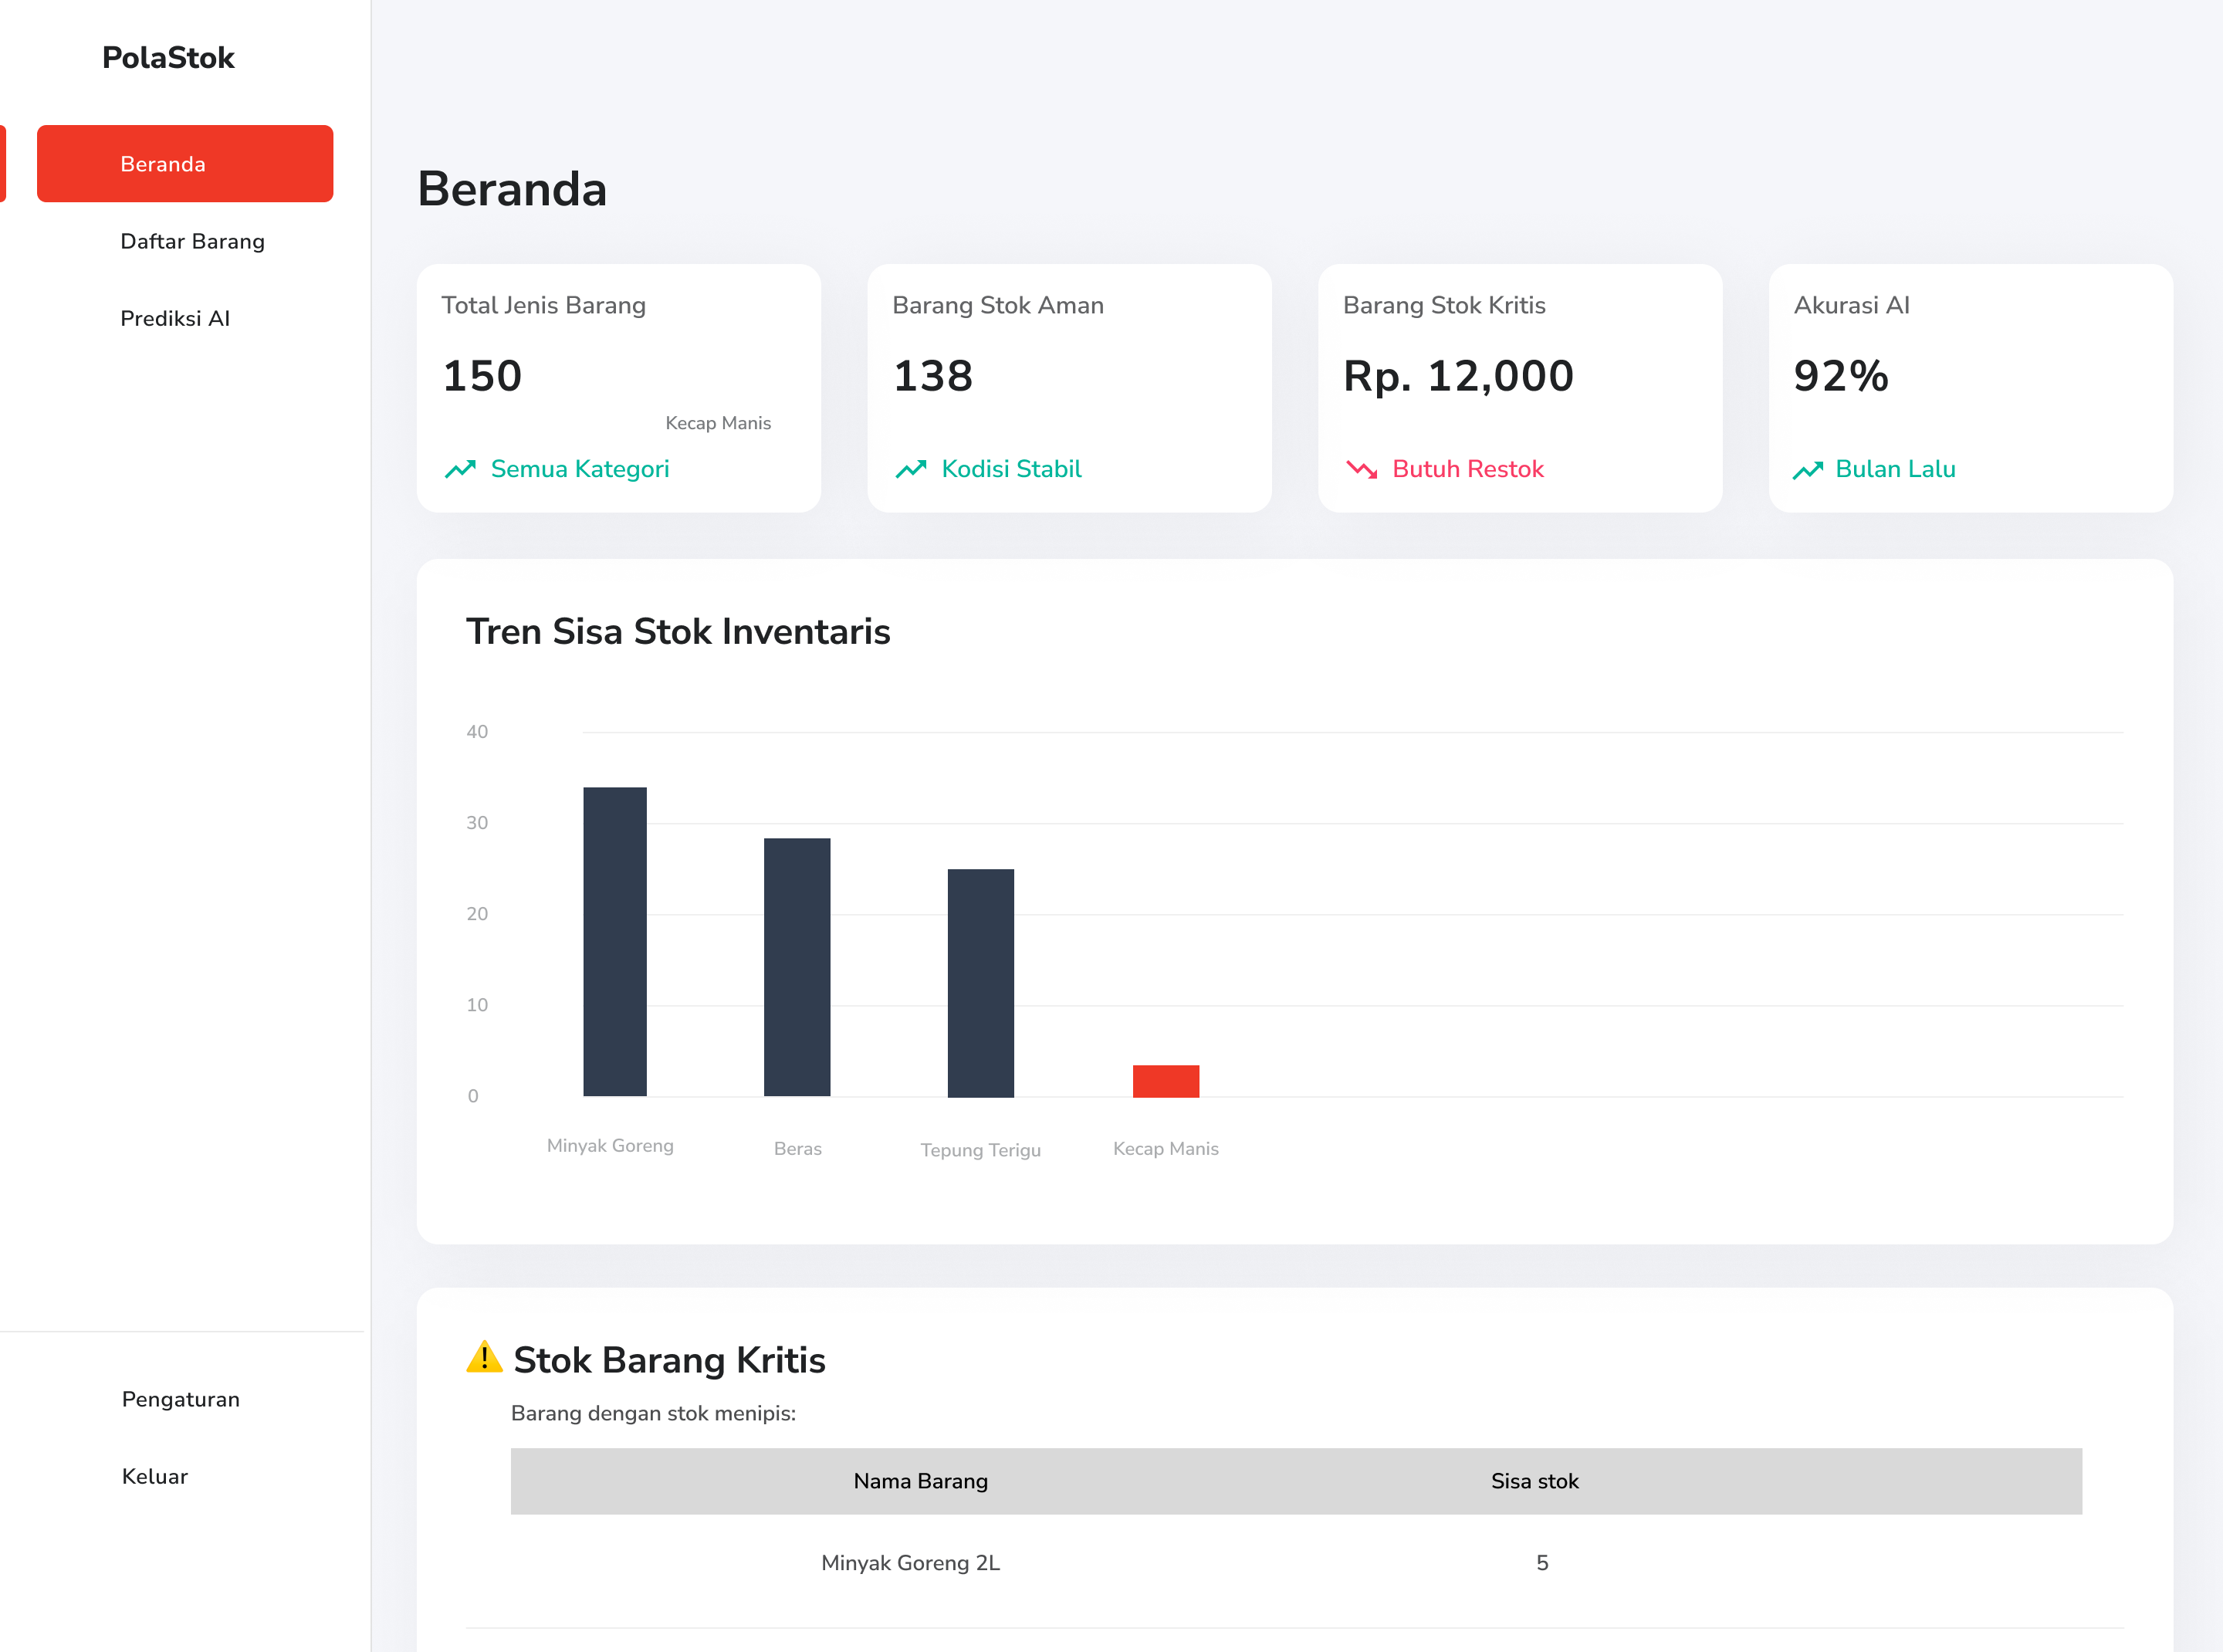
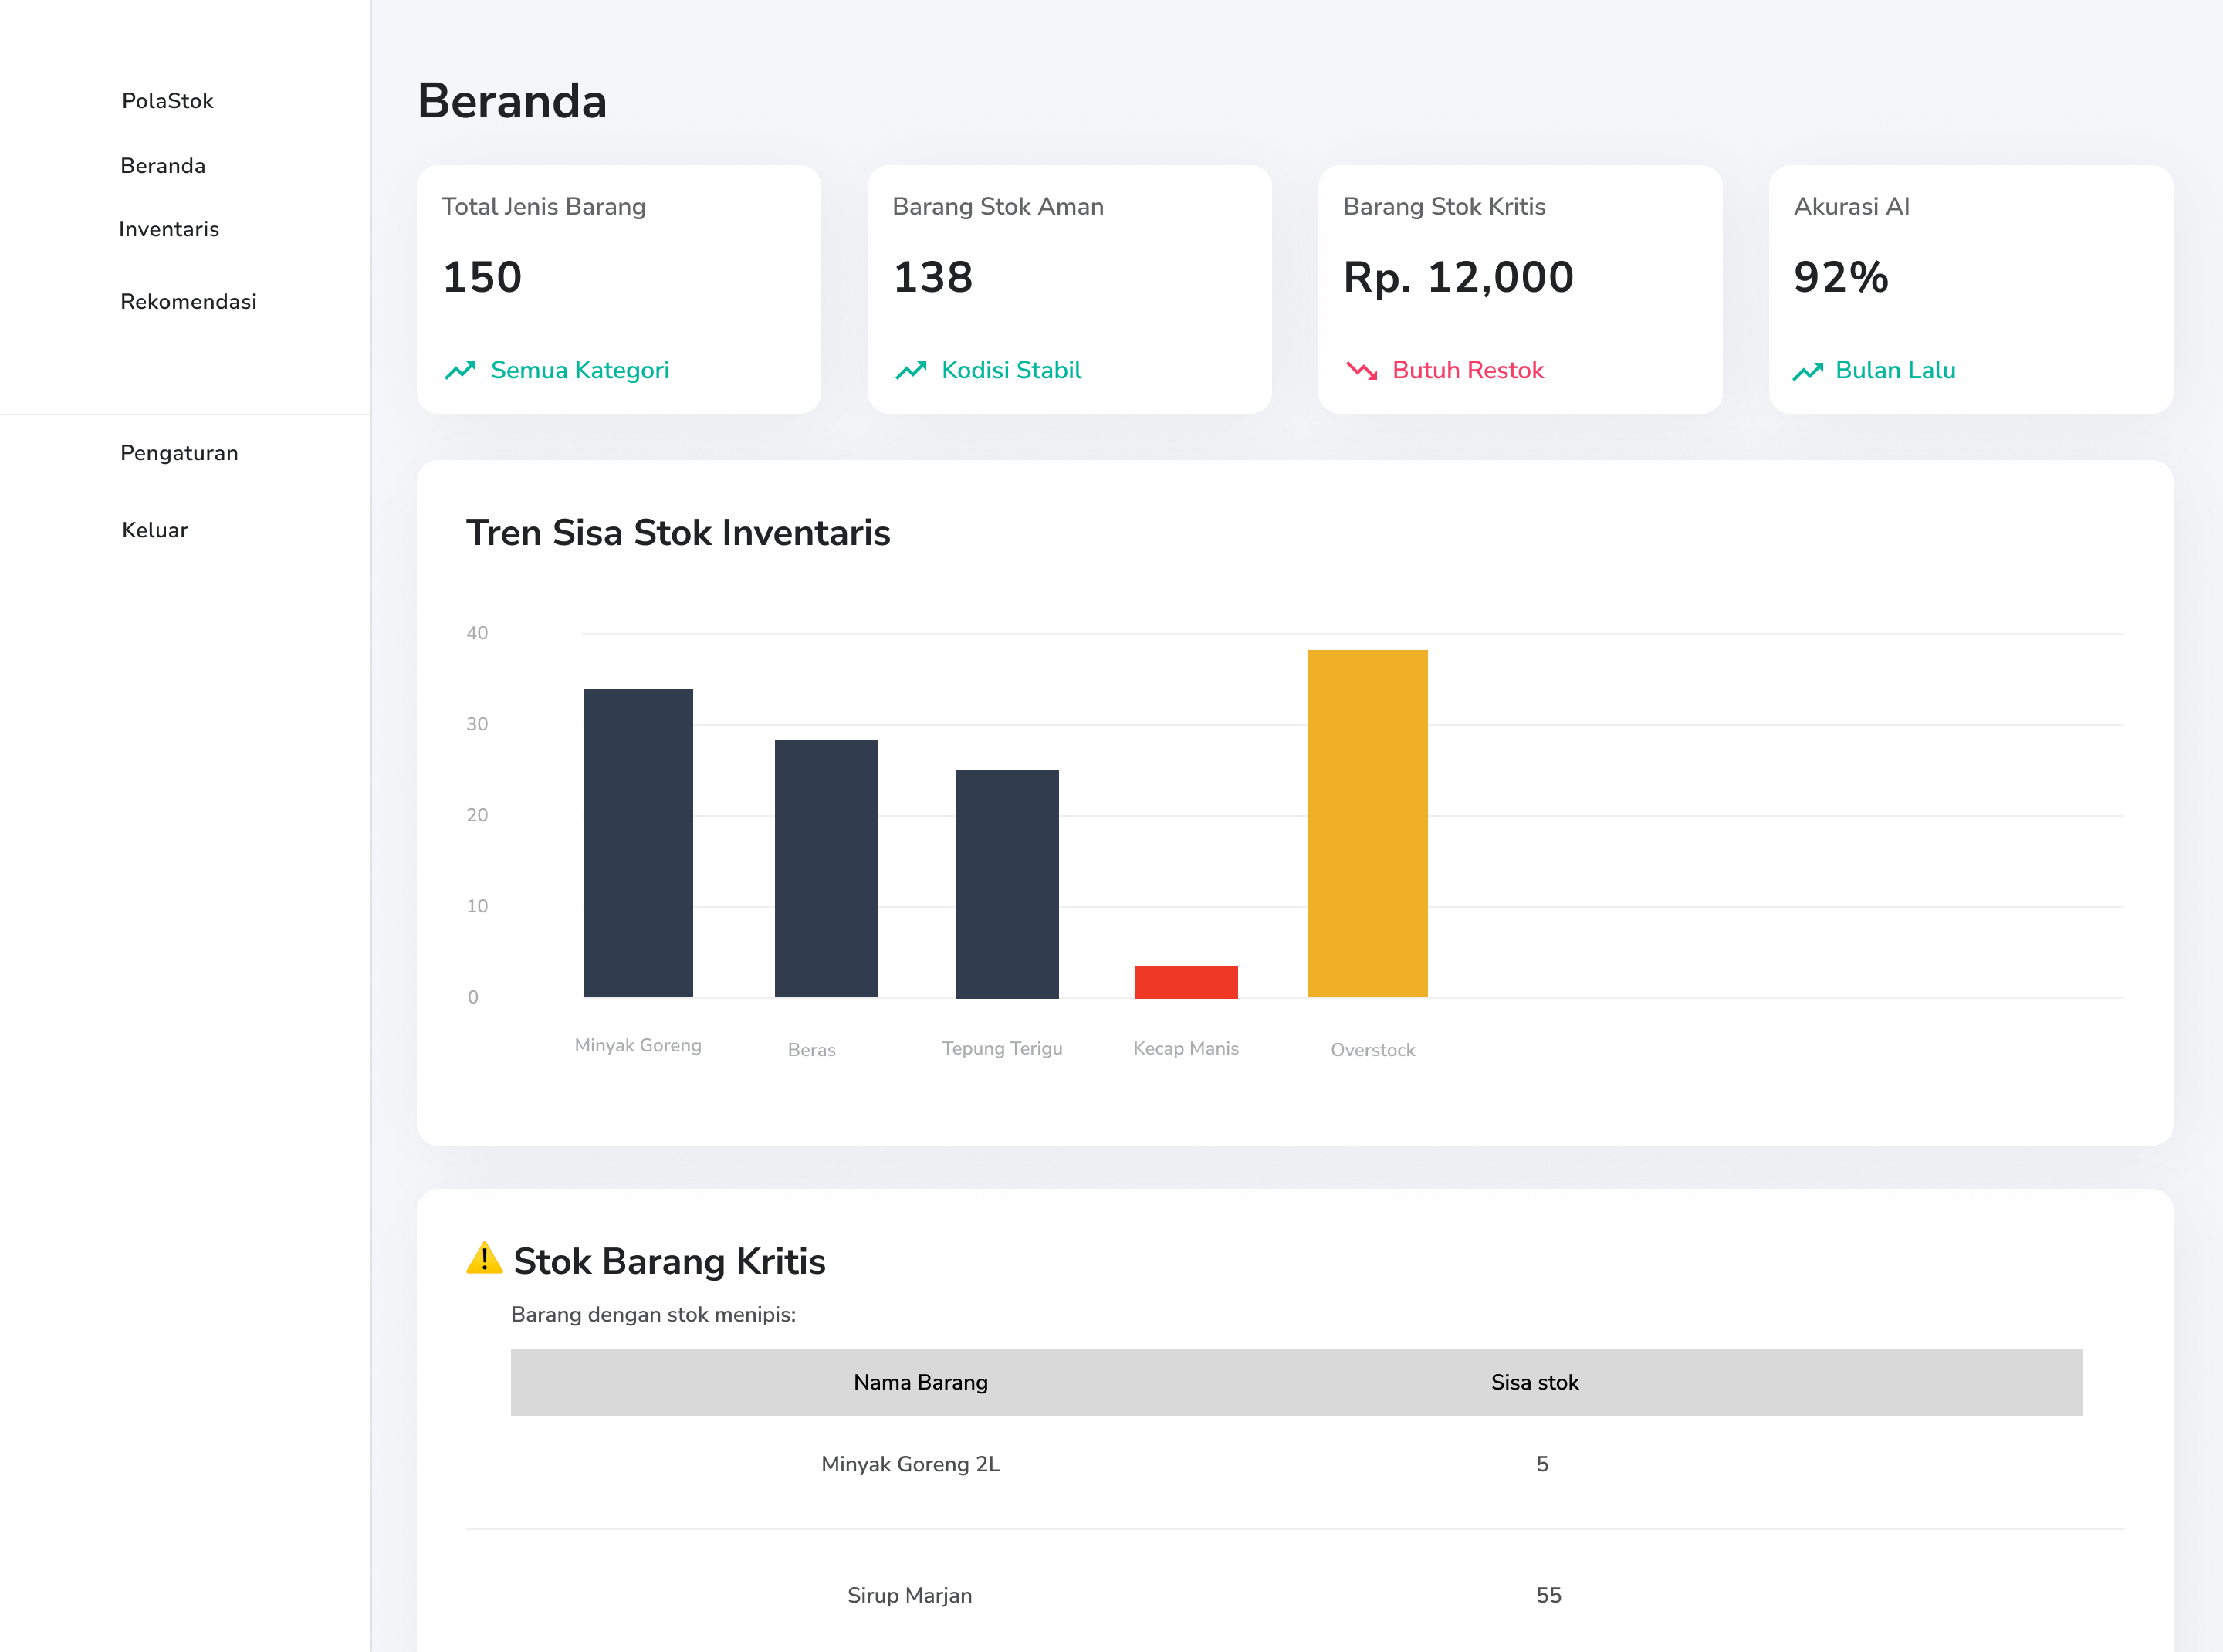
feat(ui): update layout inventaris dengan expander dan integrasi session state

diff --git a/pages/2_inventaris.py b/pages/2_inventaris.py
@@ -3,16 +3,26 @@ import pandas as pd
 import numpy as np
 from utils.helpers import load_sample_data
 
-# 1. Konfigurasi Halaman (Ikon tab pakai logo PolaStok)
+# 1. Konfigurasi Halaman 
 st.set_page_config(page_title="Daftar Barang | PolaStok", page_icon="assets/logo.png", layout="wide")
-st.logo("assets/logo.png", size="large")
 
 if not st.session_state.get('logged_in', False): 
     st.switch_page("PolaStok.py")
 if 'nama_toko' not in st.session_state: 
     st.session_state.nama_toko = 'Toko Anda'
 
-# 2. CSS Khusus "Figma Look"
+# ------- dummy database ----------
+if 'df_inventaris' not in st.session_state:
+    df_awal = load_sample_data()
+    if 'kategori' not in df_awal.columns: 
+        df_awal['kategori'] = 'Sembako'
+    if 'harga' not in df_awal.columns:
+        np.random.seed(42)
+        df_awal['harga'] = np.random.randint(10, 50, size=len(df_awal)) * 1000
+    df_awal['status'] = df_awal['status'].str.capitalize()
+    st.session_state.df_inventaris = df_awal
+
+# 2. CSS 
 st.markdown("""
 <style>
     .stApp { background-color: #F8FAFC !important; font-family: 'Inter', sans-serif; }
@@ -42,49 +52,75 @@ with st.sidebar:
         st.session_state.logged_in = False
         st.switch_page("PolaStok.py")
 
-# 4. Konten Utama
-st.markdown("<h2 style='color: #1E293B; font-weight: 800; margin-bottom: 20px; margin-top: -10px;'> 📦 Daftar Seluruh Barang</h2>", unsafe_allow_html=True)
-if st.button("Tambah Barang Baru", use_container_width=True): 
-    st.toast("Fitur tambah barang akan segera hadir!", icon="🚧")
+# ----------------- Tambah barang baru ------------
+with st.expander("➕ Tambah Barang Baru", expanded=False):
+    st.write("Isi detail barang dagangan baru, lalu klik Simpan.")
+    
+    with st.form("form_tambah_barang", clear_on_submit=True):
+        # Bikin form menyamping biar nggak terlalu panjang ke bawah
+        col_form1, col_form2 = st.columns(2)
+        with col_form1:
+            nama_baru = st.text_input("Nama Produk*")
+            kategori_baru = st.selectbox("Kategori", ["Sembako", "Minuman", "Snack", "Lainnya"])
+        with col_form2:
+            harga_baru = st.number_input("Harga Satuan (Rp)", min_value=0, step=1000)
+            stok_baru = st.number_input("Stok Awal", min_value=0, step=1)
+        
+        submit_btn = st.form_submit_button("Simpan Barang", type="primary")
+        
+        if submit_btn:
+            if nama_baru.strip() == "":
+                st.error("Nama produk tidak boleh kosong!")
+            else:
+                status_baru = "Aman" if stok_baru > 10 else "Kritis"
+                data_baru = pd.DataFrame([{
+                    "nama_produk": nama_baru,
+                    "stok": stok_baru,
+                    "satuan": "pcs",
+                    "status": status_baru,
+                    "kategori": kategori_baru,
+                    "harga": harga_baru
+                }])
+                st.session_state.df_inventaris = pd.concat([data_baru, st.session_state.df_inventaris], ignore_index=True)
+                st.success(f"Barang {nama_baru} berhasil ditambahkan!")
+                st.rerun() 
 
 col_search, col_kosong = st.columns([1.5, 2])
 with col_search: 
     search_query = st.text_input("Pencarian", placeholder="🔍 Cari nama barang...", label_visibility="collapsed")
 
-# 5. Persiapan Data
-df = load_sample_data()
-df_display = df.copy()
-if 'kategori' not in df_display.columns: 
-    df_display['kategori'] = 'Sembako'
-if 'harga' not in df_display.columns:
-    np.random.seed(42)
-    df_display['harga'] = np.random.randint(10, 50, size=len(df_display)) * 1000
+df_display = st.session_state.df_inventaris.copy()
 
-df_display['status'] = df_display['status'].str.capitalize()
 if search_query: 
     df_display = df_display[df_display['nama_produk'].str.contains(search_query, case=False, na=False)]
-
+# Persiapan data
 df_display = df_display.rename(columns={'nama_produk': 'Nama Produk', 'kategori': 'Kategori', 'harga': 'Harga Satuan (Rp)', 'stok': 'Sisa Stok', 'status': 'Status'})
 cols_to_show = ['Nama Produk', 'Kategori', 'Harga Satuan (Rp)', 'Sisa Stok', 'Status']
 
-# 6. Menampilkan Tabel Interaktif (BISA EDIT & HAPUS)
+# Rapihkan nama kolom untuk ditampilkan
+df_display = df_display.rename(columns={'nama_produk': 'Nama Produk', 'kategori': 'Kategori', 'harga': 'Harga Satuan (Rp)', 'stok': 'Sisa Stok', 'status': 'Status'})
+cols_to_show = ['Nama Produk', 'Kategori', 'Harga Satuan (Rp)', 'Sisa Stok', 'Status']
+
+# 6. Menampilkan Tabel Interaktif
 with st.container(border=True):
-    # Menggunakan st.data_editor agar bisa seperti Excel
     edited_df = st.data_editor(
         df_display[cols_to_show],
         use_container_width=True,
         hide_index=True,
-        num_rows="dynamic", # Ini yang bikin bisa nambah/hapus baris
+        num_rows="dynamic",
         column_config={
             "Nama Produk": st.column_config.TextColumn("Nama Produk", width="medium"),
-            # Kategori dibuat jadi dropdown agar pengguna UMKM tinggal pilih
             "Kategori": st.column_config.SelectboxColumn("Kategori", width="small", options=["Sembako", "Minuman", "Snack", "Lainnya"]),
             "Harga Satuan (Rp)": st.column_config.NumberColumn("Harga Satuan (Rp)", width="small", format="%d"),
             "Sisa Stok": st.column_config.NumberColumn("Sisa Stok", width="small", min_value=0),
-            # Status dikunci (disabled) karena ini indikator, bukan inputan
             "Status": st.column_config.TextColumn("Status", width="small", disabled=True)
         }
     )
+    
+    if not edited_df.equals(df_display[cols_to_show]):
+        reversed_cols = {'Nama Produk': 'nama_produk', 'Kategori': 'kategori', 'Harga Satuan (Rp)': 'harga', 'Sisa Stok': 'stok', 'Status': 'status'}
+        df_to_save = edited_df.rename(columns=reversed_cols)
+        df_to_save['satuan'] = "pcs" 
+        st.session_state.df_inventaris = df_to_save
 
-# Catatan panduan penggunaan yang ramah untuk pemilik warung
 st.caption("💡 **Tips:** Klik dua kali pada sel tabel untuk **mengubah data**. Untuk **menghapus barang**, centang kotak kecil di ujung kiri baris, lalu tekan tombol `Delete` atau `Backspace` di keyboard Anda.")

diff --git a/PolaStok.py b/PolaStok.py
@@ -1,8 +1,8 @@
 import streamlit as st
 
-# 1. Konfigurasi Halaman & Nama Tab
+# Konfigurasi Halaman
 st.set_page_config(
-    page_title="PolaStok | Masuk", 
+    page_title="PolaStok | Solusi Inventaris UMKM", 
     page_icon="assets/logo.png", 
     layout="centered",
     initial_sidebar_state="collapsed"
@@ -11,23 +11,23 @@ st.set_page_config(
 # CSS 
 st.markdown("""
 <style>
-    /* Hilangkan Sidebar & Header Streamlit */
+    /* Hapus elemen default Streamlit */
     [data-testid="stSidebar"], [data-testid="collapsedControl"], header { display: none !important; }
     
     .stApp { background-color: #F8FAFC; }
 
-    /* Paksa Jarak Rapat */
+    /* Paksa jarak biar rapat */
     .block-container { padding-top: 3rem !important; }
     [data-testid="stVerticalBlock"] { gap: 0.5rem !important; }
     
-    /* Card Container Putih */
+    /* Styling card putih */
     [data-testid="stVerticalBlockBorderWrapper"] {
         background: white;
-        padding: 35px 40px !important;
-        border-radius: 20px;
-        box-shadow: 0 10px 25px rgba(0,0,0,0.05);
+        padding: 40px !important;
+        border-radius: 24px;
+        box-shadow: 0 20px 25px -5px rgba(0,0,0,0.05), 0 10px 10px -5px rgba(0, 0, 0, 0.02);
         border: 1px solid #E2E8F0;
-        max-width: 420px; /* Ukuran pas biar gak terlalu lebar */
+        max-width: 420px; 
         margin: auto;
     }
 
@@ -80,23 +80,19 @@ _, center, _ = st.columns([0.1, 1, 0.1])
 
 with center:
     with st.container(border=True):
-        # Logo PolaStok (Konsisten ada di halaman Masuk & Daftar)
         st.image("assets/logo.png", use_container_width=True)
         
         if st.session_state.auth_mode == 'masuk':
-            st.markdown("<p style='text-align: center; color: #64748B; font-size: 14px; margin-top: -15px; margin-bottom: 20px;'>Silakan masuk ke akun toko Anda</p>", unsafe_allow_html=True)
+            st.markdown("<p style='text-align: center; color: #64748B; font-size: 14px; margin-top: -15px; margin-bottom: 20px;'>Hentikan tebak-tebakan stok. Masuk sekarang untuk memantau inventaris secara akurat dan otomatis!</p>", unsafe_allow_html=True)
             
-            # Input Fields (Full Bahasa Indonesia)
             user = st.text_input("Nama Pengguna", placeholder="Masukkan nama pengguna")
             pw = st.text_input("Kata Sandi", type="password", placeholder="Masukkan kata sandi")
             
-            st.write("") # Spasi
+            st.write("") 
             
-            # Layout Sampingan (Tombol Masuk & Daftar)
             col_btn, col_txt = st.columns([1.2, 1])
             
             with col_btn:
-                # Perhatikan penambahan type="primary"
                 if st.button("Masuk", type="primary"):
                     if user == "admin" and pw == "admin123":
                         st.session_state.logged_in = True
@@ -106,20 +102,19 @@ with center:
             
             with col_txt:
                 st.markdown("<p style='font-size: 12px; color: #94A3B8; margin-bottom: -15px;'>Belum punya akun?</p>", unsafe_allow_html=True)
-                # Perhatikan penambahan type="secondary"
                 if st.button("Buat Akun Baru", type="secondary"):
                     st.session_state.auth_mode = 'daftar'
                     st.rerun()
 
         else:
             # Mode Registrasi
-            st.markdown("<p style='text-align: center; color: #64748B; font-size: 14px; margin-top: -15px; margin-bottom: 20px;'>Daftarkan toko Anda sekarang</p>", unsafe_allow_html=True)
+            st.markdown("<p style='text-align: center; color: #64748B; font-size: 14px; margin-top: -15px; margin-bottom: 20px;'>Kelola ribuan barang tanpa pusing. Digitalisasi inventaris UMKM Anda hanya dalam hitungan menit.</p>", unsafe_allow_html=True)
             
             st.text_input("Nama Toko", placeholder="Contoh: Warung Berkah")
             st.text_input("Buat Nama Pengguna", placeholder="Gunakan huruf kecil tanpa spasi")
             st.text_input("Buat Kata Sandi", type="password", placeholder="Minimal 8 karakter")
             
-            st.write("") # Spasi
+            st.write("") 
             
             col_reg, col_back = st.columns([1.2, 1])
             with col_reg:
@@ -135,4 +130,4 @@ with center:
 
 # Redirect ke Dashboard kalau sudah login
 if st.session_state.get('logged_in', False):
-    st.switch_page("pages/1_dashboard.py")
+    st.switch_page("pages/1_Beranda.py")

diff --git a/README.md b/README.md
@@ -8,11 +8,11 @@ Aplikasi web PolaStok berbasis **Streamlit** untuk visualisasi inventaris, predi
 
 ```
 polastok-web/
-├── PolaStok.py                     # Entry point utama Streamlit
+├── PolaStok.py                # Entry point utama Streamlit
 ├── pages/
-│   ├── 1_dashboard.py         # KPI & ringkasan inventaris
-│   ├── 2_inventaris.py        # Tabel daftar & manajemen stok
-│   └── 3_prediksi.py          # Prediksi demand dari model ML
+│   ├── 1_Beranda.py           # KPI & ringkasan inventaris
+│   ├── 2_Inventaris.py        # Tabel daftar & manajemen stok
+│   └── 3_Rekomendasi.py       # Prediksi demand dari model ML
 ├── components/
 │   ├── charts.py              # Fungsi grafik (Plotly)
 │   └── alerts.py              # Komponen peringatan stok
@@ -74,11 +74,11 @@ cp ../polastok-ml/models/model.pkl models/model.pkl
 
 ## 🖥️ Halaman Aplikasi
 
-| Halaman    | File                    | Deskripsi                       |
-| ---------- | ----------------------- | ------------------------------- |
-| Dashboard  | `pages/1_dashboard.py`  | KPI stok, tren, peringatan dini |
-| Inventaris | `pages/2_inventaris.py` | Tabel produk + filter status    |
-| Prediksi   | `pages/3_prediksi.py`   | Forecast demand 1–3 bulan       |
+| Halaman     | File                     | Deskripsi                       |
+| ----------- | ------------------------ | ------------------------------- |
+| Beranda     | `pages/1_Beranda.py`     | KPI stok, tren, peringatan dini |
+| Inventaris  | `pages/2_Inventaris.py`  | Tabel produk + filter status    |
+| Rekomendasi | `pages/3_Rekomendasi.py` | Forecast demand 1–3 bulan       |
 
 ---
 